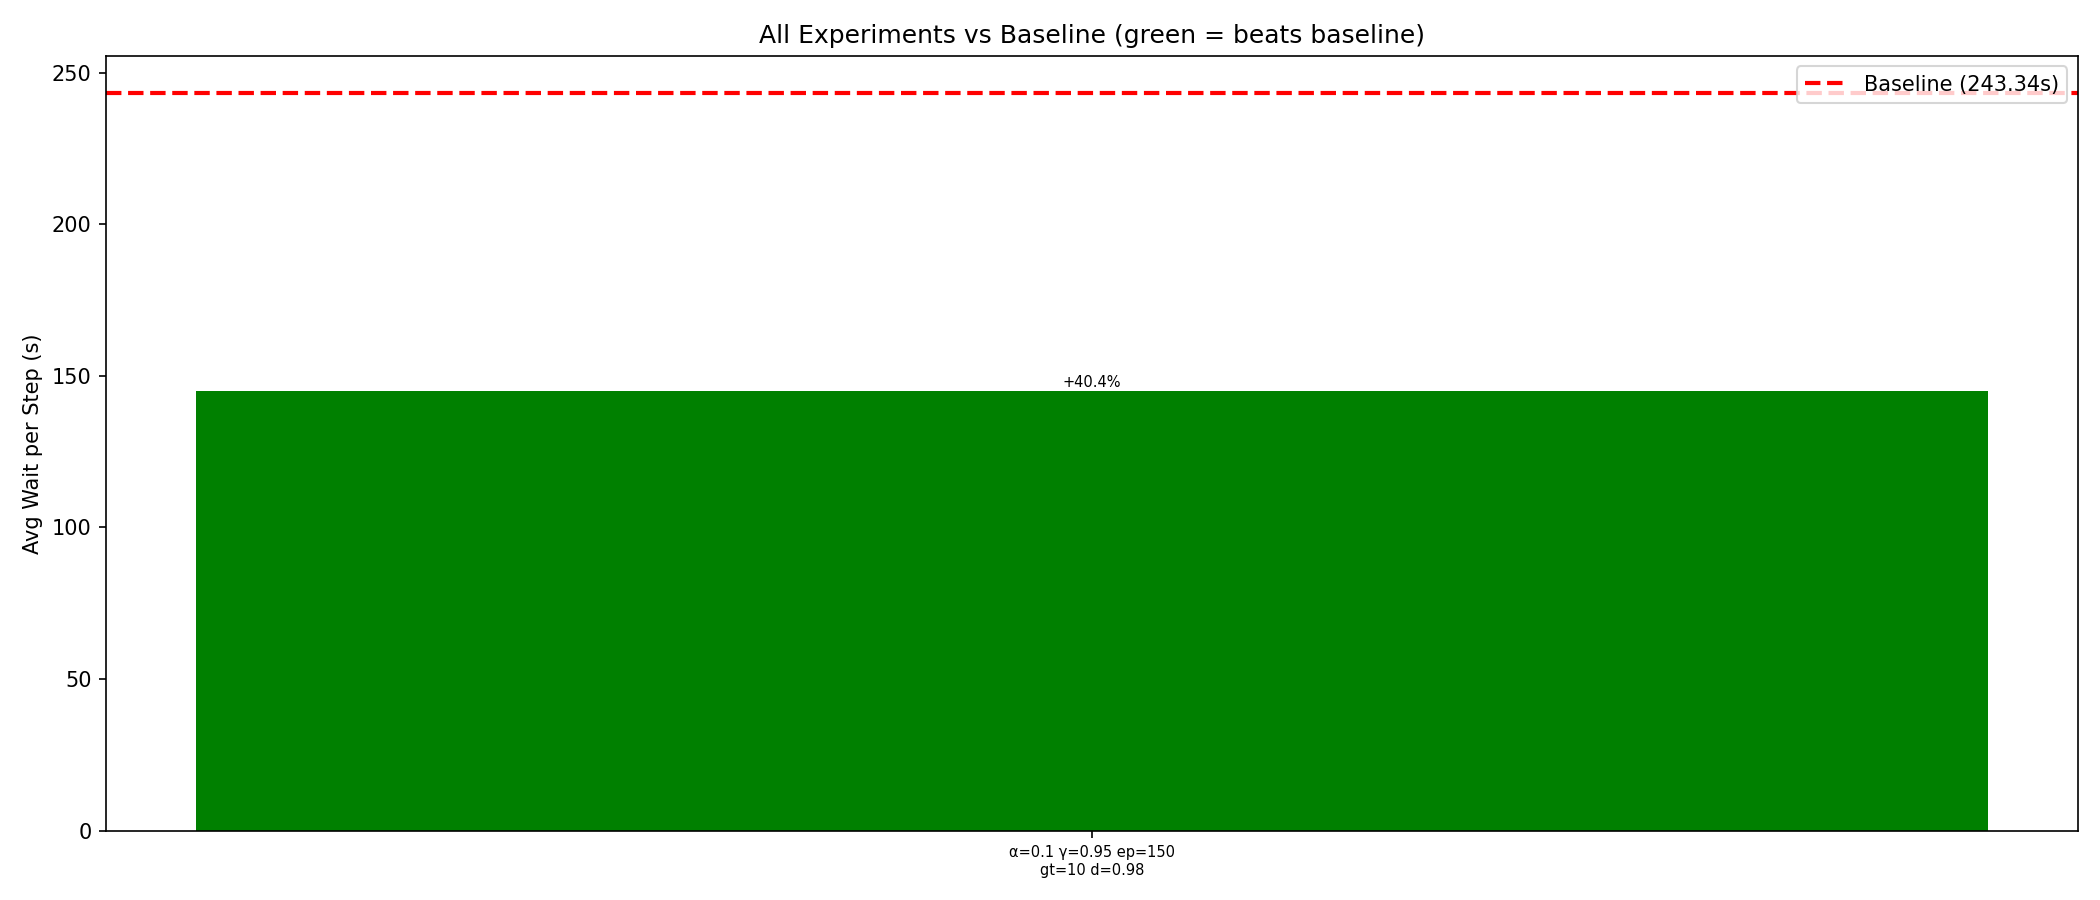
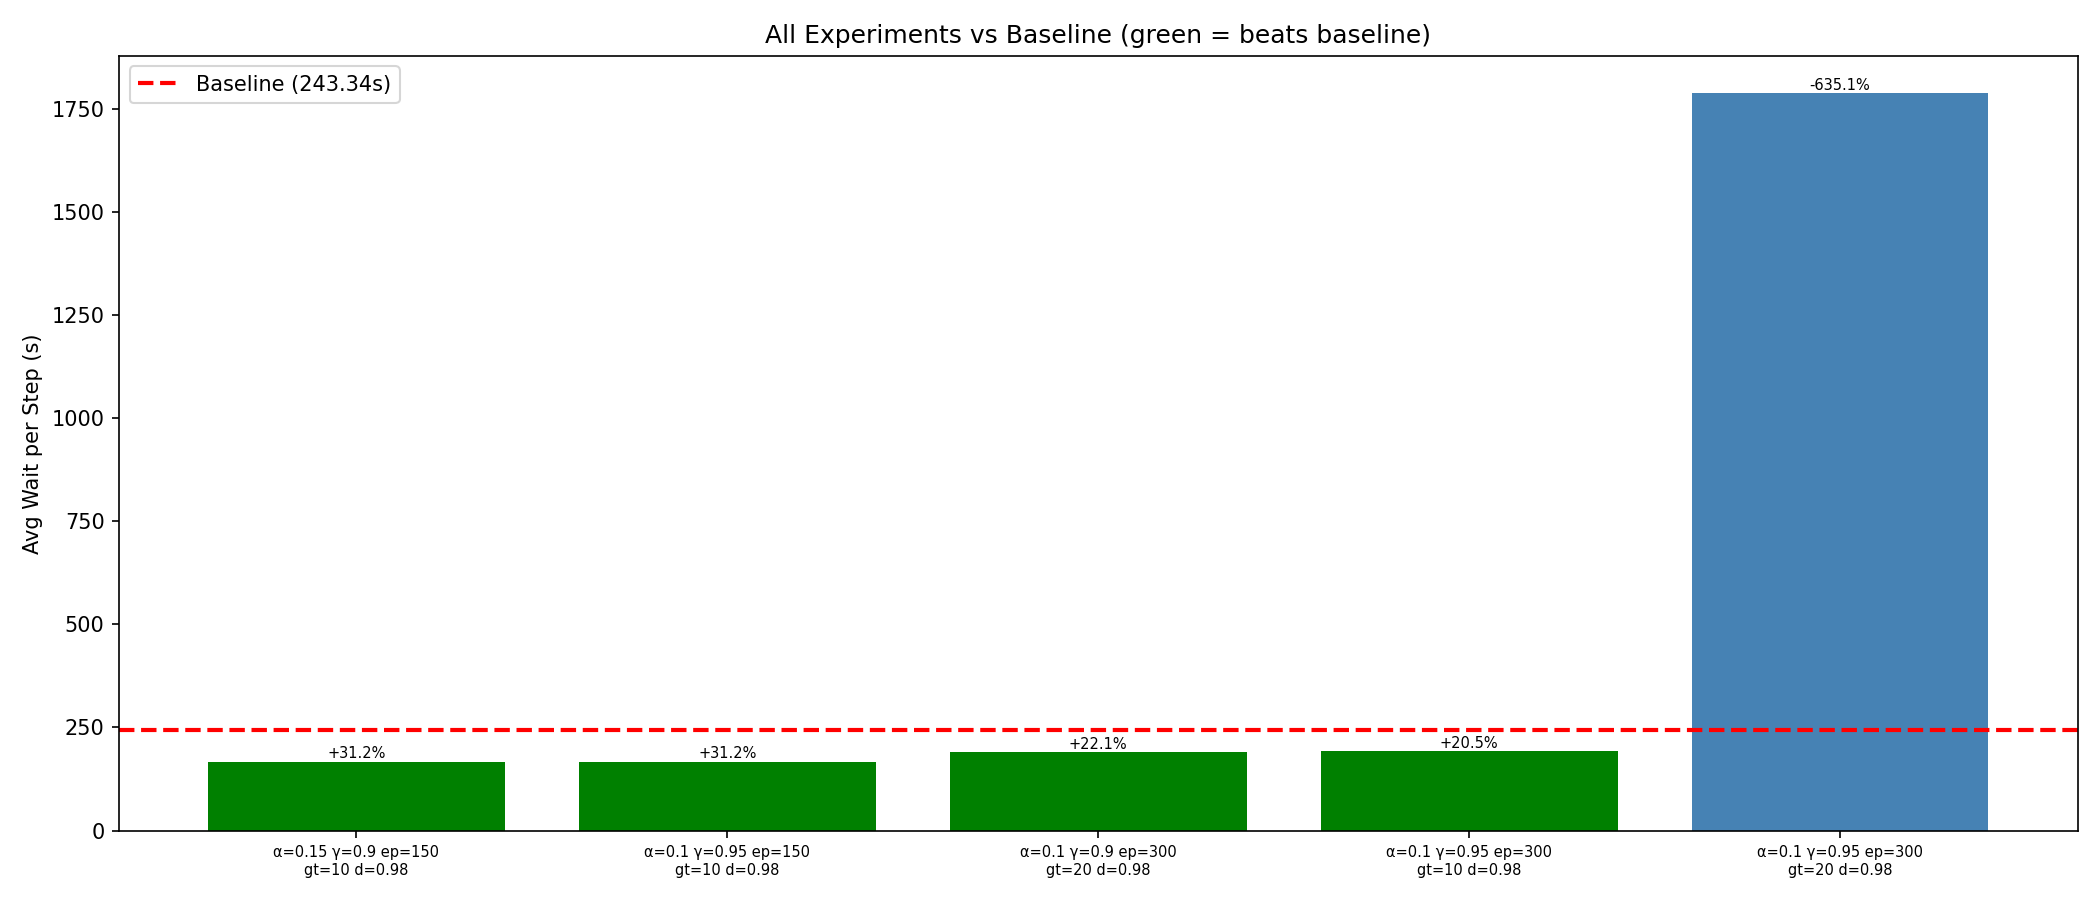
This works

diff --git a/Q-learning/model.py b/Q-learning/model.py
@@ -13,14 +13,14 @@ else:
 import traci
 
 # HYPERPARAMETERS 
-ALPHA         = 0.15
+ALPHA         = 0.1
 GAMMA         = 0.9
 EPSILON       = 1.0        # start fully random
 EPSILON_DECAY = 0.98       # decay per episode (not per step)
 MIN_EPSILON   = 0.05
 
-EPISODES   = 150
-GREEN_TIME = 10            # same value used in test.py
+EPISODES   = 300
+GREEN_TIME = 20            # same value used in test.py
 YELLOW_TIME = 3
 
 J1 = "J1"

diff --git a/Q-learning/plot.py b/Q-learning/plot.py
@@ -69,6 +69,8 @@ def single_plot(vary_key, vary_label, fixed, color, filename, title):
     ax.legend()
     fig.tight_layout()
     fig.savefig(f"plots/{filename}.png", dpi=150)
+    plt.grid()
+    plt.show()
     plt.close()
     print(f"Saved plots/{filename}.png")
 
@@ -100,6 +102,8 @@ def joint_plot(vary_key1, vary_key2, label1, label2, fixed, filename, title):
     ax.legend()
     fig.tight_layout()
     fig.savefig(f"plots/{filename}.png", dpi=150)
+    plt.grid()
+    plt.show()
     plt.close()
     print(f"Saved plots/{filename}.png")
 
@@ -177,6 +181,8 @@ ax.legend()
 ax.tick_params(axis="x", labelsize=7)
 fig.tight_layout()
 fig.savefig("plots/10_overall.png", dpi=150)
+plt.grid()
+plt.show()
 plt.close()
 print("Saved plots/10_overall.png")
 

diff --git a/Q-learning/test.py b/Q-learning/test.py
@@ -13,7 +13,7 @@ else:
 import traci
 
 # CONFIG — GREEN_TIME and YELLOW_TIME must match train.py
-GREEN_TIME  = 10
+GREEN_TIME  = 20
 YELLOW_TIME = 3
 
 J1 = "J1"
@@ -126,9 +126,9 @@ print(f"Avg Wait/Step     : {avg_wait:.2f}s")
 # SAVE RESULT — update top 4 values to match what you used in train.py
 
 test_result = {
-    "alpha":             0.15,       # change to match train.py
+    "alpha":             0.1,       # change to match train.py
     "gamma":             0.9,      # change to match train.py
-    "episodes":          150,       # change to match train.py
+    "episodes":          300,       # change to match train.py
     "epsilon_decay":     0.98,      # change to match train.py
     "green_time":        GREEN_TIME,
     "yellow_time":       YELLOW_TIME,